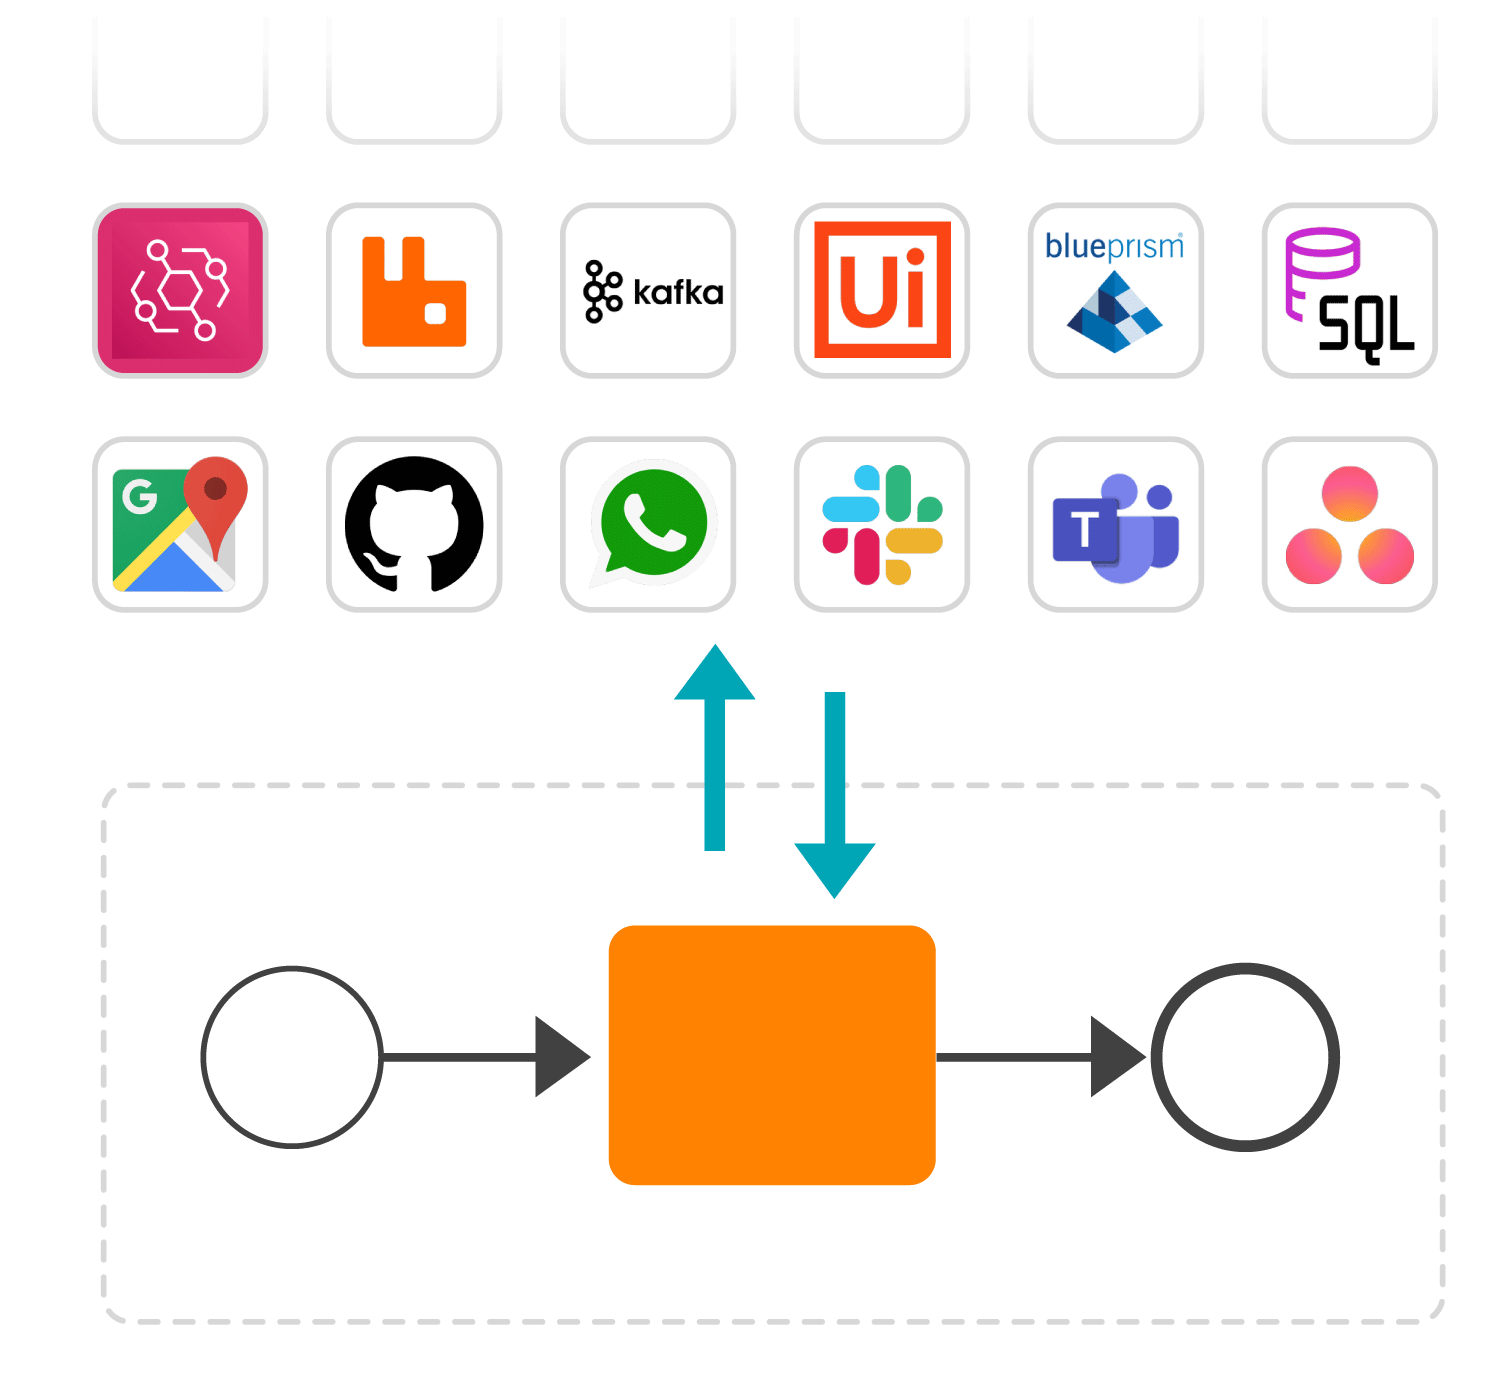
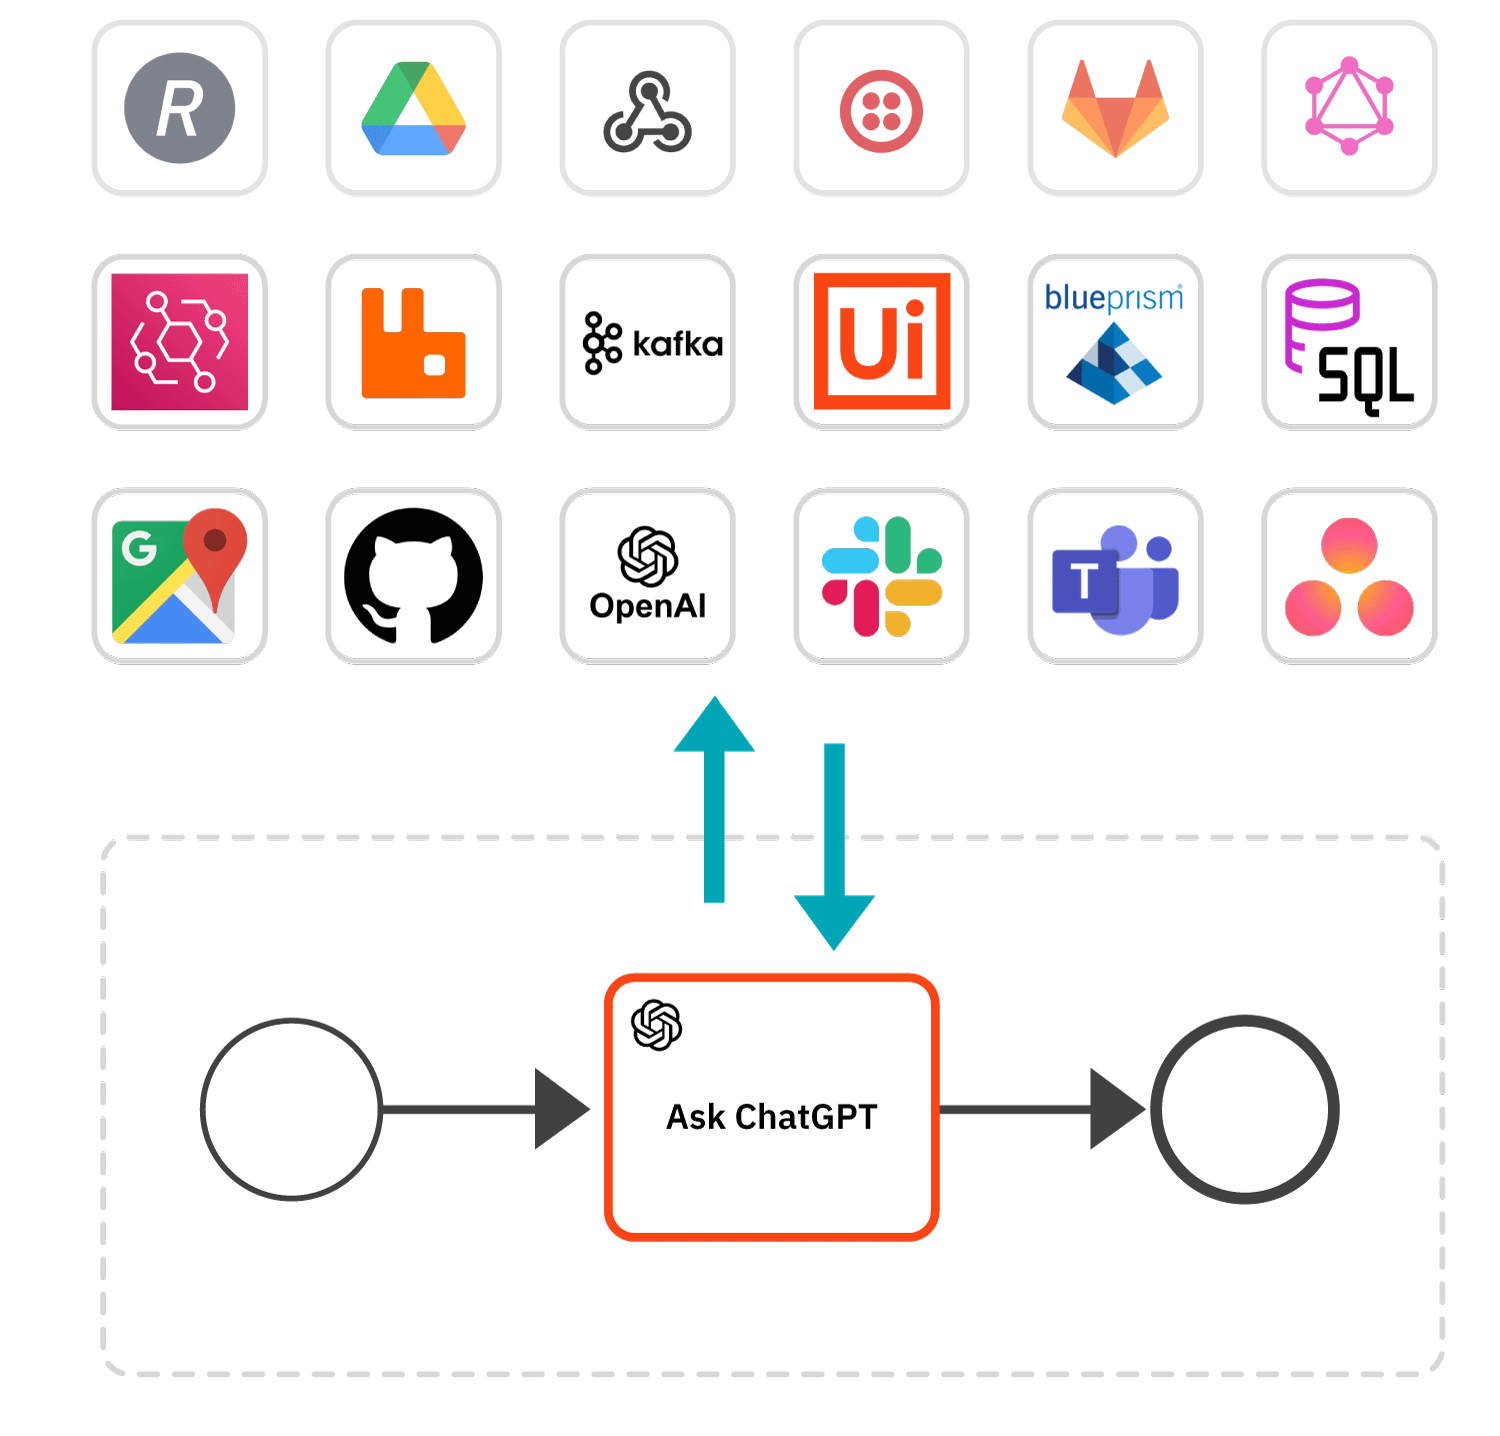
Add Example Connector

diff --git a/sidebars.js b/sidebars.js
@@ -311,7 +311,7 @@ module.exports = {
       items: [
         {
           type: "category",
-          label: "Get started",
+          label: "Get started with Connectors",
           link: {
             type: "doc",
             id: "components/connectors/connectors-start",
@@ -331,6 +331,7 @@ module.exports = {
             id: "components/connectors/out-of-the-box-connectors/available-connectors-overview",
           },
           items: [
+            "components/connectors/out-of-the-box-connectors/example-template",
             {
               "Amazon AWS": [
                 "components/connectors/out-of-the-box-connectors/amazon-bedrock",
@@ -394,25 +395,34 @@ module.exports = {
           items: [
             "components/connectors/custom-built-connectors/connector-templates",
             "components/connectors/manage-connector-templates",
-            "components/connectors/custom-built-connectors/connector-sdk",
             {
               type: "category",
-              label: "Connector SDK updates",
+              label: "Connector SDK",
               link: {
                 type: "doc",
-                id: "components/connectors/custom-built-connectors/update-guide/introduction",
+                id: "components/connectors/custom-built-connectors/connector-sdk",
               },
               items: [
-                "components/connectors/custom-built-connectors/update-guide/0100-to-0110",
-                "components/connectors/custom-built-connectors/update-guide/090-to-0100",
-                "components/connectors/custom-built-connectors/update-guide/080-to-090",
-                "components/connectors/custom-built-connectors/update-guide/070-to-080",
-                "components/connectors/custom-built-connectors/update-guide/060-to-070",
-                "components/connectors/custom-built-connectors/update-guide/050-to-060",
-                "components/connectors/custom-built-connectors/update-guide/040-to-050",
-                "components/connectors/custom-built-connectors/update-guide/030-to-040",
-                "components/connectors/custom-built-connectors/update-guide/020-to-030",
-                "components/connectors/custom-built-connectors/update-guide/010-to-020",
+                {
+                  type: "category",
+                  label: "Connector SDK updates",
+                  link: {
+                    type: "doc",
+                    id: "components/connectors/custom-built-connectors/update-guide/introduction",
+                  },
+                  items: [
+                    "components/connectors/custom-built-connectors/update-guide/0100-to-0110",
+                    "components/connectors/custom-built-connectors/update-guide/090-to-0100",
+                    "components/connectors/custom-built-connectors/update-guide/080-to-090",
+                    "components/connectors/custom-built-connectors/update-guide/070-to-080",
+                    "components/connectors/custom-built-connectors/update-guide/060-to-070",
+                    "components/connectors/custom-built-connectors/update-guide/050-to-060",
+                    "components/connectors/custom-built-connectors/update-guide/040-to-050",
+                    "components/connectors/custom-built-connectors/update-guide/030-to-040",
+                    "components/connectors/custom-built-connectors/update-guide/020-to-030",
+                    "components/connectors/custom-built-connectors/update-guide/010-to-020",
+                  ],
+                },
               ],
             },
           ],

diff --git a/docs/components/connectors/out-of-the-box-connectors/example-template.md b/docs/components/connectors/out-of-the-box-connectors/example-template.md
@@ -1,0 +1,49 @@
+---
+id: example-template
+sidebar_label: Example
+title: Example Connector
+description: Interact with the Example Connector from your BPMN process.
+---
+
+import AmazonEventbridgeImg from "../img/connector-amazon-eventbridge.png";
+
+<p><img src={AmazonEventbridgeImg} alt="Get started" style={{border:0,padding:0,paddingLeft:20,paddingRight:20,margin:0,float: 'right', width: '100px'}}/>Connect your BPMN service with Asana to get and create Asana tasks and projects.</p>
+
+| Connector type | Compatibility                       | Camunda Marketplace                                                                       |
+| :------------- | :---------------------------------- | :---------------------------------------------------------------------------------------- |
+| Outbound       | SaaS and Self-Managed 8.4, 8.5, 8.6 | [Example Connector](https://marketplace.camunda.com/en-US/apps/418707/alfresco-connector) |
+
+## About this Connector
+
+Bring generative AI into business processes that are orchestrated by Camunda by sending natural language input to ChatGPT. Use OpenAI's Moderation API to screen inputs.
+
+For example, use this Connector to:
+
+- Enhance processes with generative AI
+- Add another use case
+
+### BPM events
+
+This Connector is typically used with the following BPMN events:
+
+- [Message events](https://docs.camunda.io/docs/next/components/modeler/bpmn/message-events/)
+
+## How to use this Connector
+
+To use and run this Connector in your processes:
+
+- Add the Connector to your BPMN diagram (as a Message event for example)
+- Configure Authentication to connect to your Asana instance.
+- Select the operation you require
+
+### Prerequisites
+
+Requirements for using this Connector are as follows:
+
+- A Kafka instance with a configured bootstrap server.
+
+## Authentication
+
+## Operations
+
+## Connector response

diff --git a/docs/components/connectors/introduction.md b/docs/components/connectors/introduction.md
@@ -19,19 +19,19 @@ import OverviewImg from './img/connector-overview.png';
 
 For example:
 
-- Use the [Slack](/components/connectors/out-of-the-box-connectors/slack.md) or [Microsoft Teams](/components/connectors/out-of-the-box-connectors/microsoft-teams.md) Connector to notify people of pending or completed processes in a human task orchestration onboarding flow.
-- In microservices orchestration, use the [Kafka](/components/connectors/out-of-the-box-connectors/kafka.md) Connector to incorporate real-time messaging in your automated processes.
+- Use a [Slack](/components/connectors/out-of-the-box-connectors/slack.md) or [Microsoft Teams](/components/connectors/out-of-the-box-connectors/microsoft-teams.md) Connector to notify people of pending or completed processes in a human task orchestration onboarding flow.
+- In microservices orchestration, use a [Kafka](/components/connectors/out-of-the-box-connectors/kafka.md) Connector to add real-time messaging to your automated processes.
 
 Connectors are often configured as a [BPMN process](/components/concepts/processes.md) task, with the required integration parameters already set up for easy configuration. This helps remove the need for you to write custom integration programming code.
 
-## Get started
+## Get started with Connectors
 
 Learn more about how to use Connectors in your processes and about the different types of Connector available.
 
 <div class="connector-grid">
   <a href="../connectors-start" class="connector-card" title="Get started with Connectors">
     <img src={IconPlayImg} alt="Get started"/>
-    <h3>Get started</h3>
+    <h3>Get started with Connectors</h3>
     <p>Learn more about Connectors.</p>
   </a>
     <a href="../connector-types" class="connector-card" title="Connector types">
